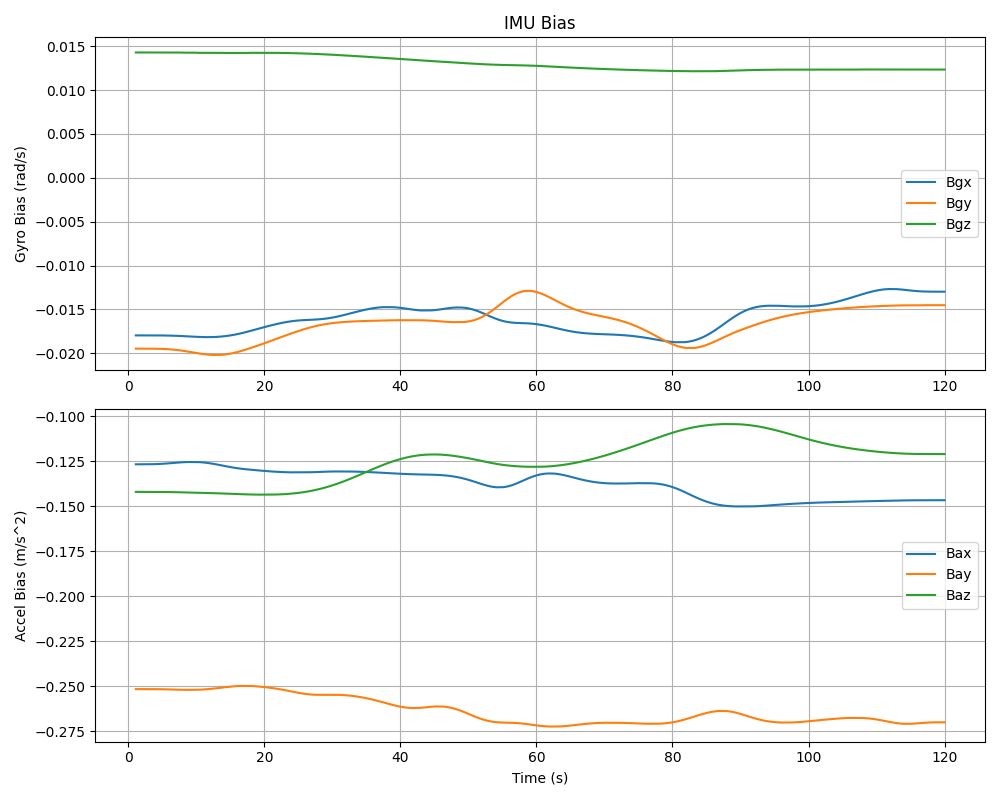
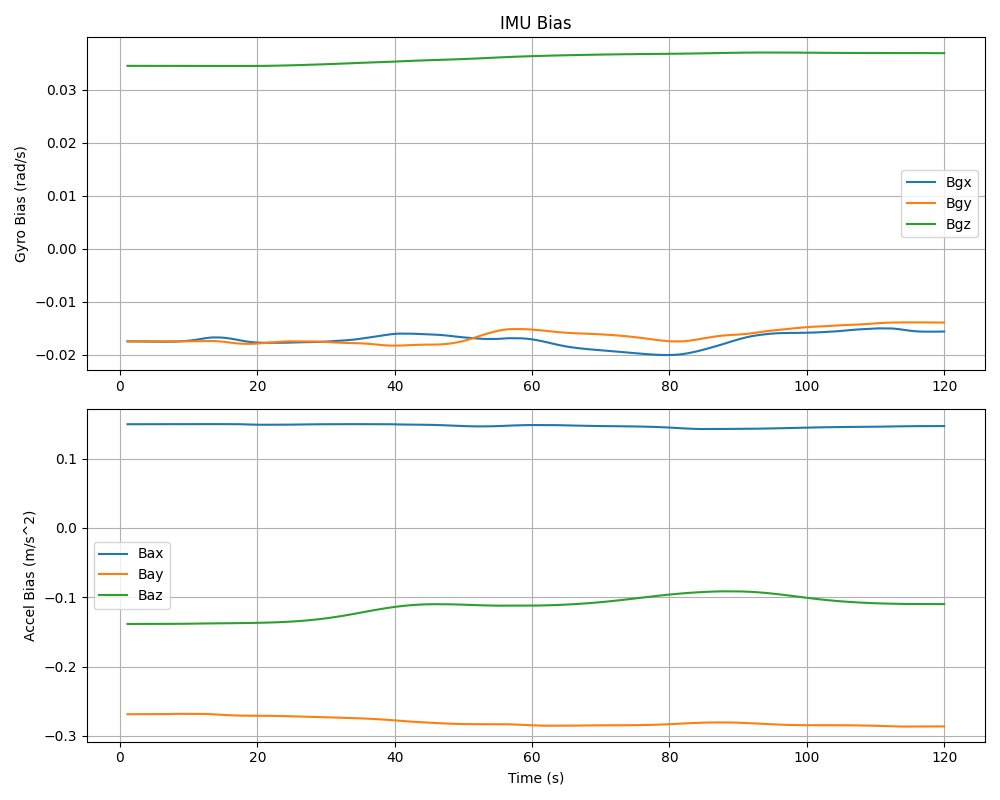
Enable LeverArm Opt and Add GNSS comparison plot

diff --git a/plot_ct_results.py b/plot_ct_results.py
@@ -14,23 +14,43 @@ def plot_results(file_path):
         print(f"Error reading file: {e}")
         return
 
+    # Try to load GNSS data
+    gnss_path = file_path.replace('OB_GINS_CT.txt', 'OB_GINS_CT_GNSS.txt')
+    gnss_data = None
+    try:
+        gnss_data = pd.read_csv(gnss_path, sep='\s+', comment='#', header=None)
+        # Time Tx Ty Tz
+        gnss_data.columns = ['Time', 'Tx', 'Ty', 'Tz']
+        print(f"Loaded GNSS data from {gnss_path}")
+    except:
+        print(f"Could not load GNSS data from {gnss_path}, skipping comparison.")
+
     # Plot Position
     plt.figure(figsize=(10, 8))
     plt.subplot(3, 1, 1)
-    plt.plot(data['Time'], data['Tx'], label='Tx')
+    plt.plot(data['Time'], data['Tx'], label='Est Tx', linewidth=1.5)
+    if gnss_data is not None:
+        plt.scatter(gnss_data['Time'], gnss_data['Tx'], c='r', marker='x', s=10, label='GNSS Tx', alpha=0.5)
     plt.ylabel('X (m)')
-    plt.title('Position')
+    plt.title('Position Comparison')
+    plt.legend()
     plt.grid(True)
     
     plt.subplot(3, 1, 2)
-    plt.plot(data['Time'], data['Ty'], label='Ty')
+    plt.plot(data['Time'], data['Ty'], label='Est Ty', linewidth=1.5)
+    if gnss_data is not None:
+        plt.scatter(gnss_data['Time'], gnss_data['Ty'], c='r', marker='x', s=10, label='GNSS Ty', alpha=0.5)
     plt.ylabel('Y (m)')
+    plt.legend()
     plt.grid(True)
     
     plt.subplot(3, 1, 3)
-    plt.plot(data['Time'], data['Tz'], label='Tz')
+    plt.plot(data['Time'], data['Tz'], label='Est Tz', linewidth=1.5)
+    if gnss_data is not None:
+        plt.scatter(gnss_data['Time'], gnss_data['Tz'], c='r', marker='x', s=10, label='GNSS Tz', alpha=0.5)
     plt.ylabel('Z (m)')
     plt.xlabel('Time (s)')
+    plt.legend()
     plt.grid(True)
     plt.tight_layout()
     plt.savefig('ct_position.png')

diff --git a/src/ob_gins_ct.cc b/src/ob_gins_ct.cc
@@ -413,5 +413,18 @@ int main(int argc, char** argv) {
     fclose(fp);
     LOG(INFO) << "Done. Saved to " << out_file.string();
 
+    // Export GNSS used (Local Frame) for comparison
+    std::filesystem::path out_gnss = std::filesystem::path(output_path) / "OB_GINS_CT_GNSS.txt";
+    FILE* fp_gnss = fopen(out_gnss.string().c_str(), "w");
+    if (fp_gnss) {
+        fprintf(fp_gnss, "# Time Tx Ty Tz\n");
+        for (const auto& gnss : valid_gnss) {
+            fprintf(fp_gnss, "%.4f %.4f %.4f %.4f\n", 
+                gnss.time, gnss.blh.x(), gnss.blh.y(), gnss.blh.z());
+        }
+        fclose(fp_gnss);
+        LOG(INFO) << "Saved processed GNSS to " << out_gnss.string();
+    }
+
     return 0;
 }
